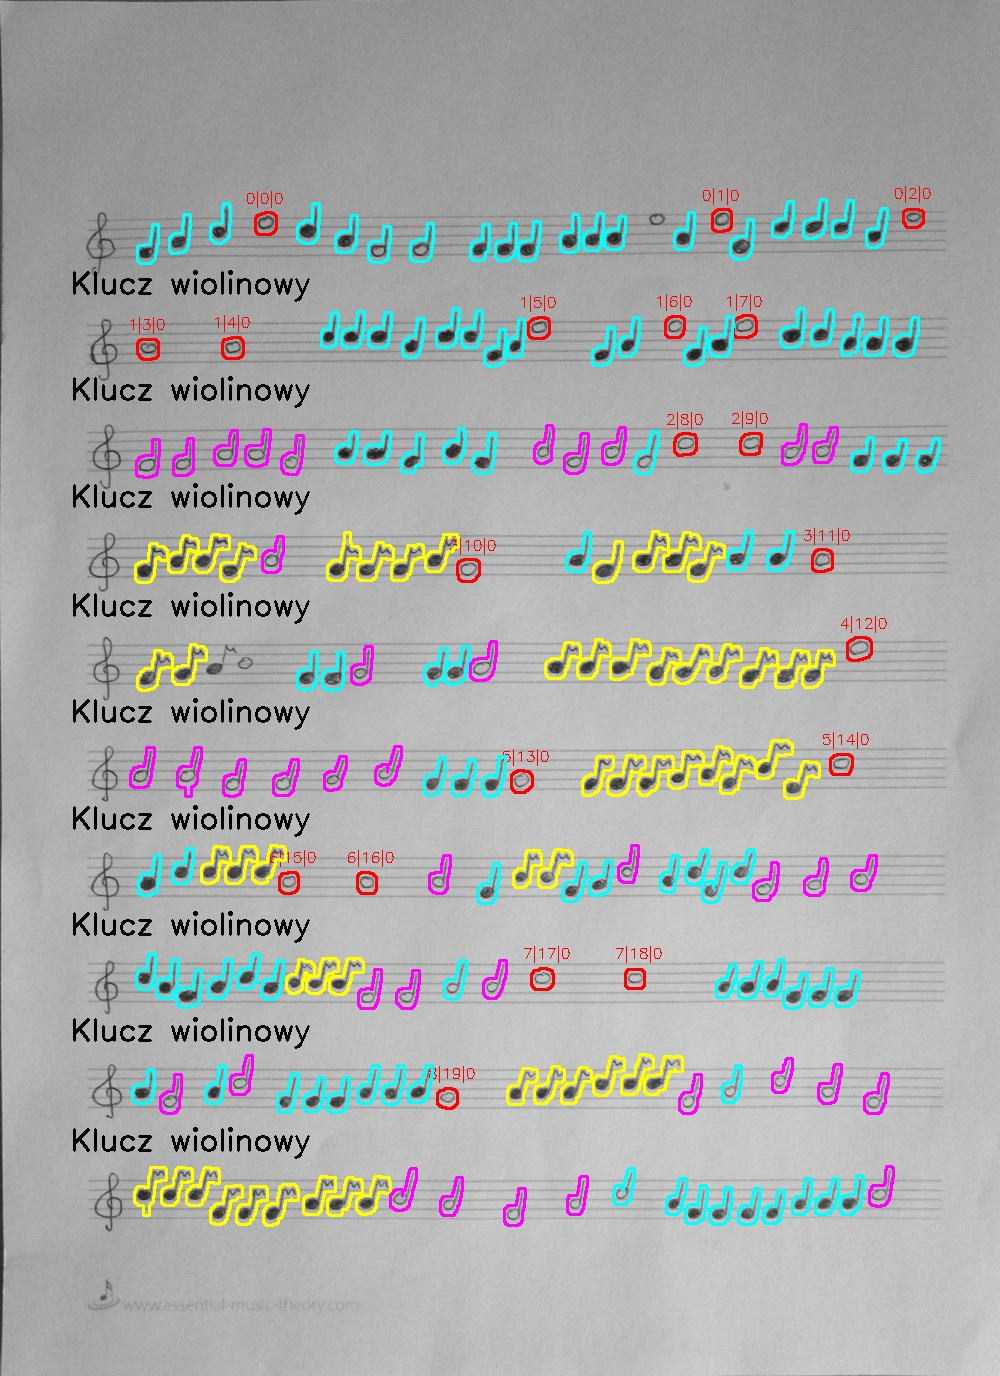
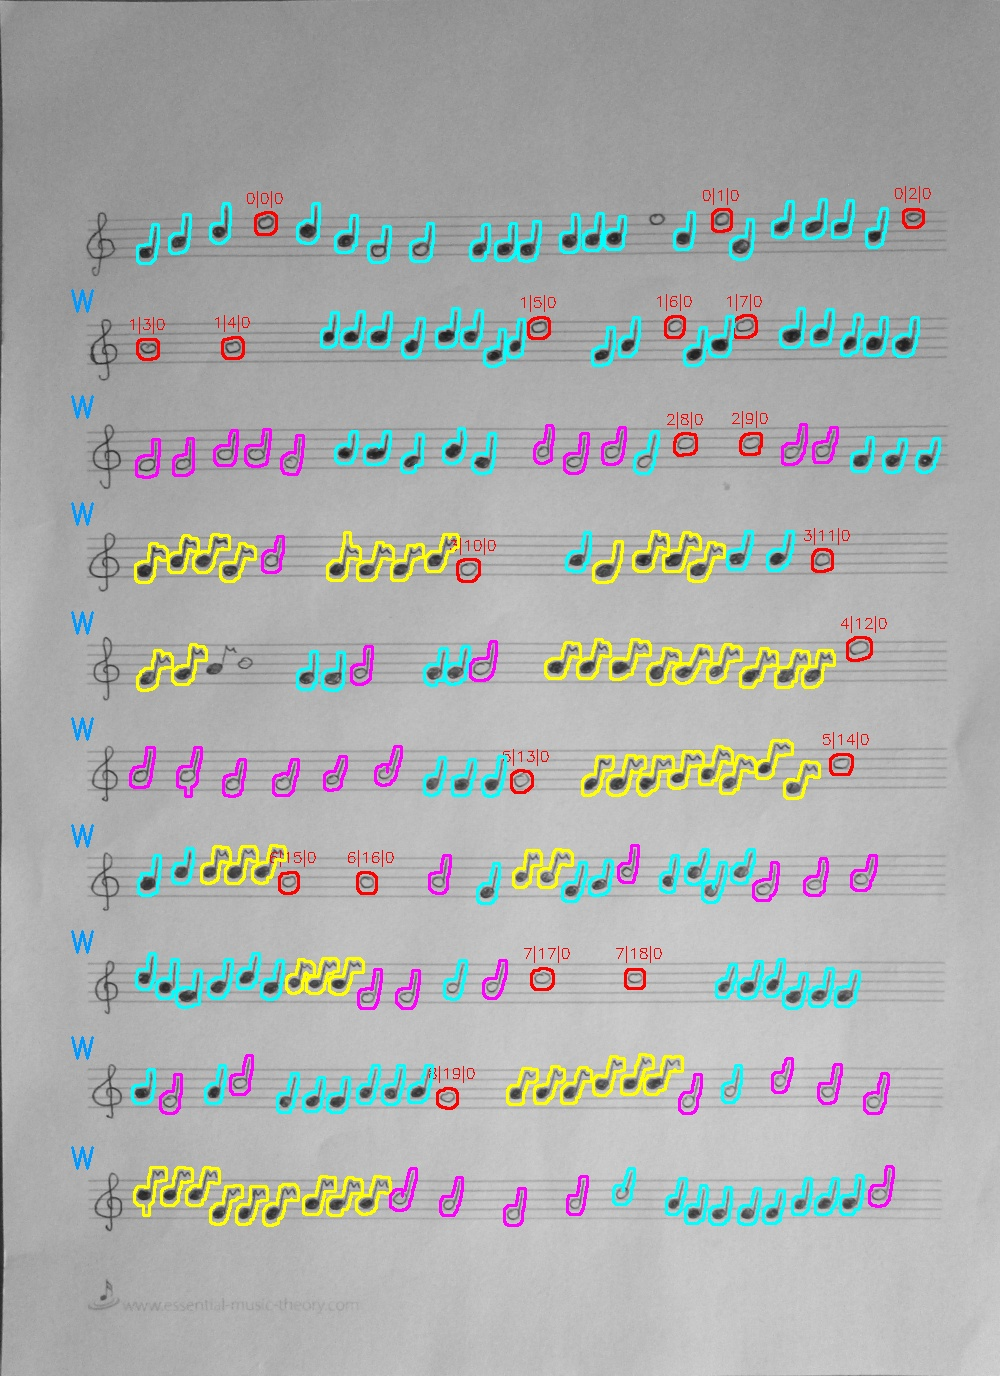
Minor changes in finding keys

diff --git a/keys.py b/keys.py
@@ -15,12 +15,12 @@ def enablePrint():
 
 
 def writeName(img, places, photoId, whatType):
-    font, scale, color, typ = [cv2.FONT_HERSHEY_SIMPLEX, 1, (0,0,0), 2]
+    font, scale, color, typ = [cv2.FONT_HERSHEY_SIMPLEX, 1, (255,153,0), 2]
     for placeId in range(len(places)):
         if whatType[placeId]:
-            cv2.putText(img, 'Klucz wiolinowy', places[placeId], font, scale, color, typ)
+            cv2.putText(img, 'W', places[placeId], font, scale, color, typ)
         else:
-            cv2.putText(img, 'Klucz basowy', places[placeId], font, scale, color, typ)
+            cv2.putText(img, 'B', places[placeId], font, scale, color, typ)
     cv2.imwrite("keys/image_" + repr(photoId) + ".jpg", img)
 
 
@@ -40,7 +40,7 @@ def findKey(yHigh, yLow, x, y, img):
     
     img = cv2.cvtColor(img, cv2.COLOR_GRAY2RGB)
 
-    return found, (xLeft, yHigh - propLow)
+    return found, (xLeft, yHigh - propHigh)
 
 
 def processImage(index, img, staves, result):
